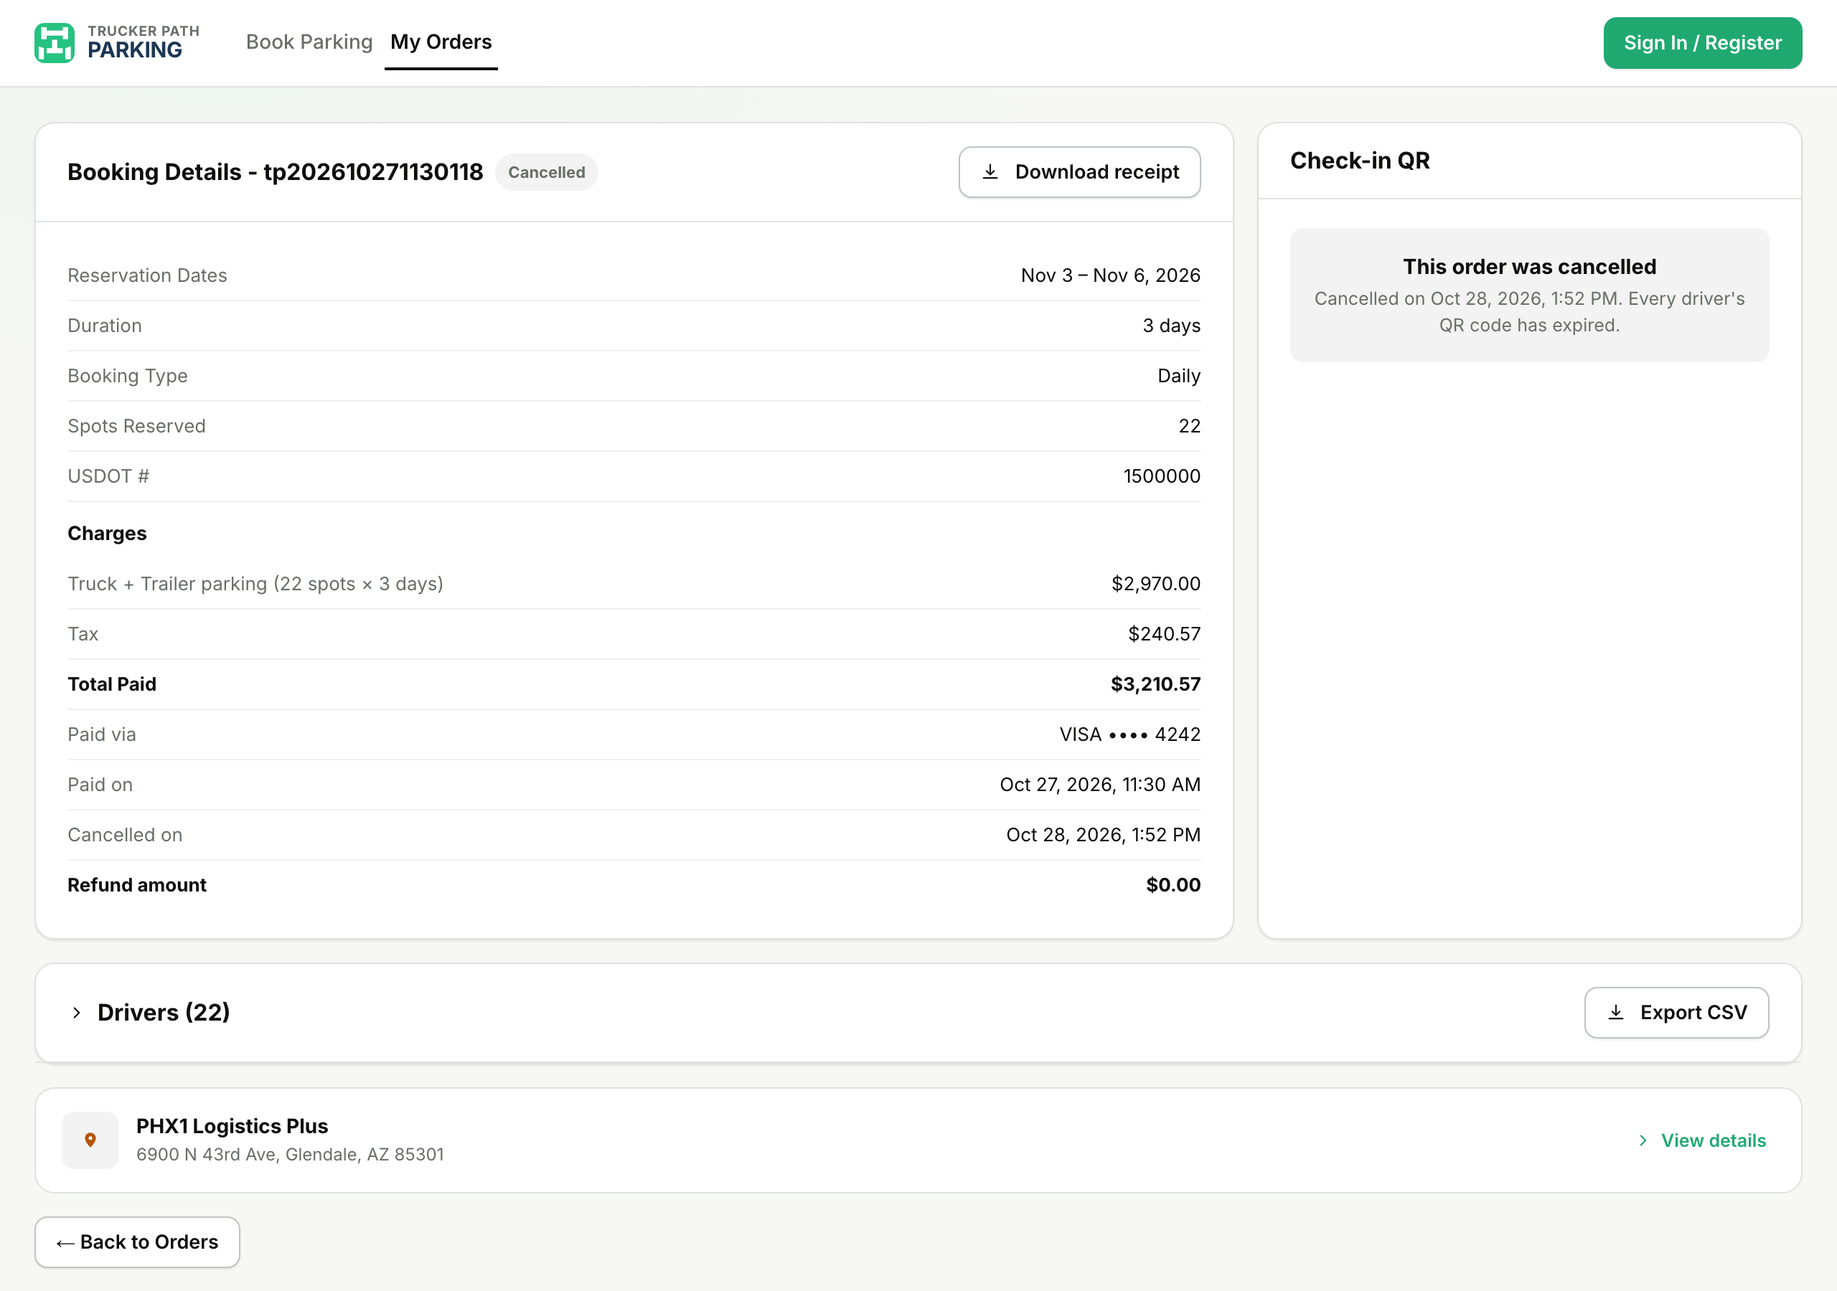
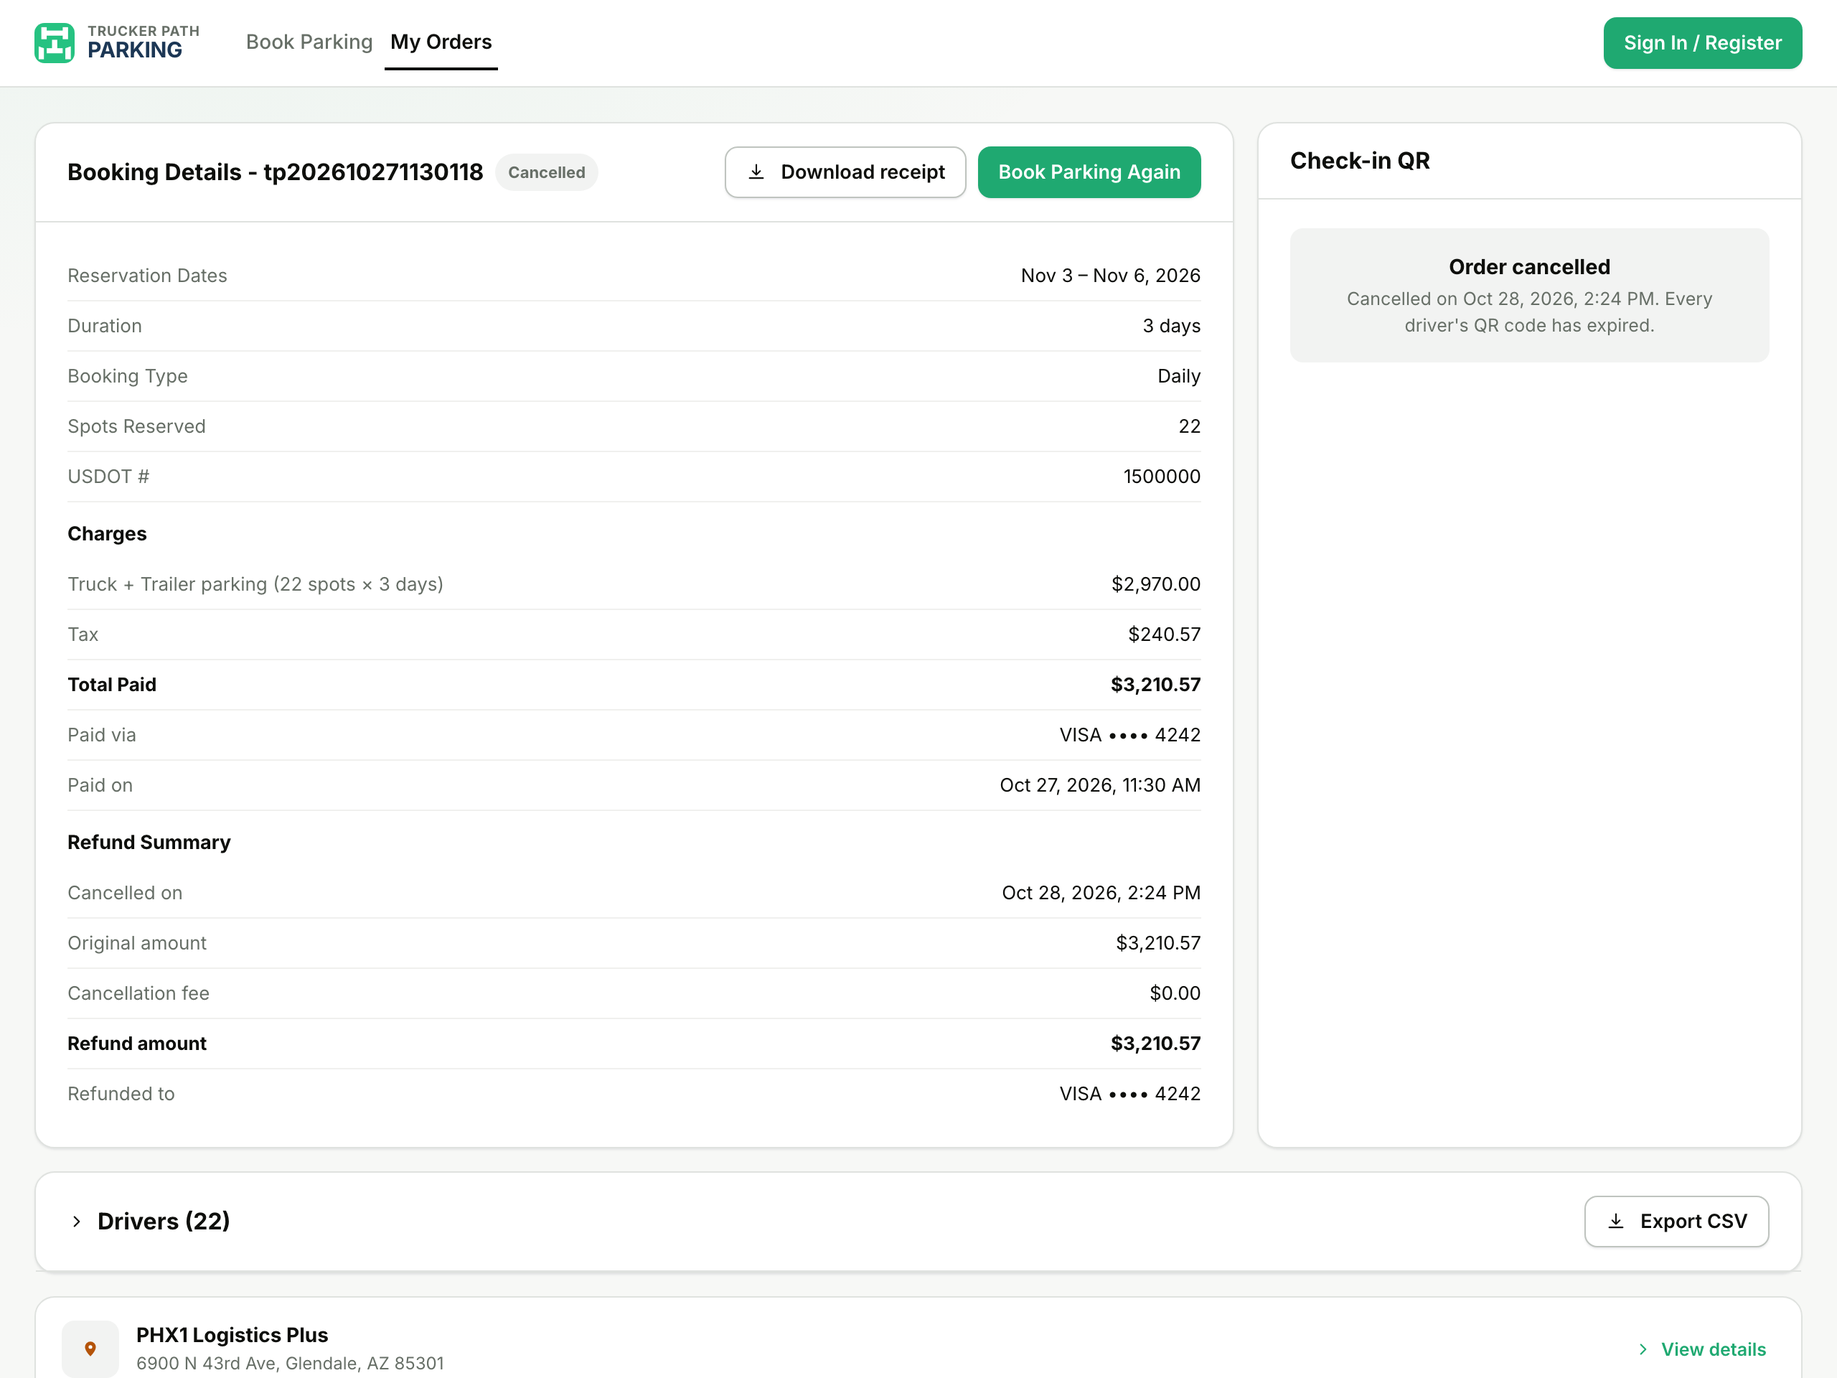
Fleet Web cancel: follow the TP App Phase 3 cancel flow
Daily: full refund > 2h before check-in, no refund within 2h, no cancel
after check-in. Monthly: Cancel Subscription, full refund > 1 day before
check-in while Booked, otherwise the original cancel subscription flow.
Adds cancellation success/failed states and the Refund Summary.

diff --git a/index.html b/index.html
@@ -488,7 +488,7 @@ const S = {
   postLoginGoto: null,
   bookingSeq: 112,
   retryOrderId: null,
-  cancelOrderId: null, cancelError: false, cancelSimFail: false,
+  cancelOrderId: null, cancelStep: 'confirm', cancelSimFail: false,
   amenitiesExpanded: false,
   hoursExpanded: false,
   driversSectionExpanded: false,
@@ -541,9 +541,10 @@ const S = {
       subscription:{ start:'Sep 1, 2026', vtype:'Truck + Trailer', cardId:'card_visa',
         history:[ {period:'Sep 1 – Sep 30, 2026', on:'Sep 1, 2026, 10:15 AM', status:'Paid'},
                   {period:'Oct 1 – Oct 31, 2026', on:'Oct 1, 2026, 12:00 AM', status:'Failed', reason:'card declined (insufficient funds)'} ] }},
-    // upcoming orders that can still be cancelled: a daily order (cancel, never refunded) and a monthly
-    // subscription starting more than 1 day out (Unsubscribe refunds it in full)
+    // upcoming orders that can still be cancelled, one per refund state of the TP App's cancel flow:
+    // daily > 2 hours before check-in (full refund), daily within 2 hours (no refund), monthly > 1 day before check-in (full refund)
     {id:'tp202610271130118', loc:'Glendale, AZ — PHX1 Logistics Plus', lotId:'glendale1', dates:'Nov 3 – Nov 6, 2026', spots:22, paidOn:'Oct 27, 2026, 11:30 AM', status:'Paid', type:'batch'},
+    {id:'tp202610280645122', loc:'Eloy, AZ — PICACHO RV & TRUCK PARK', lotId:'eloy', dates:'Oct 28 – Oct 31, 2026', spots:22, paidOn:'Oct 28, 2026, 6:45 AM', status:'Paid', type:'batch', startsWithin2h:true},
     {id:'tp202610271620131', loc:'Maricopa, AZ — N White Rd Truck & Trailer Yard', lotId:'maricopa', dates:'Starts Nov 1, 2026 · monthly', spots:2, paidOn:'Oct 27, 2026, 4:20 PM', status:'Paid', type:'batch',
       subscription:{ start:'Nov 1, 2026', notStarted:true, vtype:'Truck + Trailer', cardId:'card_visa',
         history:[ {period:'Nov 1 – Nov 30, 2026', on:'Oct 27, 2026, 4:20 PM', status:'Paid'} ] }},
@@ -2328,7 +2329,8 @@ function orderDetailPage(d){
           <h2 class="card-title" style="display:flex;align-items:center;gap:8px">Booking Details - ${d.id}${d.statusPill ? `<span class="status-pill status-cancelled">${d.statusPill}</span>` : ''}</h2>
           <div style="display:flex;gap:8px">
             <button class="btn btn-outline" data-toast="Receipt downloaded">${ic.download}&nbsp;Download receipt</button>
-            ${d.canCancel ? `<button class="btn btn-danger-outline" id="cancelOrderBtn">${d.isMonthly ? 'Unsubscribe' : 'Cancel order'}</button>` : ''}
+            ${d.canCancel ? `<button class="btn btn-danger-outline" id="cancelOrderBtn">${d.isMonthly ? 'Cancel Subscription' : 'Cancel Order'}</button>` : ''}
+            ${d.cancelled ? `<button class="btn btn-primary" id="bookAgainBtn">Book Parking Again</button>` : ''}
           </div>
         </div>
         <div class="card-body">
@@ -2349,9 +2351,12 @@ function orderDetailPage(d){
           ${d.refundedOn ? `
           <div class="info-row"><span class="k">Refunded on</span><span>${d.refundedOn}</span></div>
           <div class="info-row"><span class="k"><b style="color:var(--ink)">Refund amount</b></span><span><b>-${fmtUSD(d.total)}</b></span></div>` : ''}
-          ${d.cancelledOn ? `
+          ${d.refundSummary ? `<div class="section-label" style="color:var(--ink);margin:12px 0 8px">Refund Summary</div>
           <div class="info-row"><span class="k">Cancelled on</span><span>${d.cancelledOn}</span></div>
-          <div class="info-row"><span class="k"><b style="color:var(--ink)">Refund amount</b></span><span><b>${fmtUSD(0)}</b></span></div>` : ''}
+          <div class="info-row"><span class="k">Original amount</span><span>${fmtUSD(d.refundSummary.original)}</span></div>
+          <div class="info-row"><span class="k">Cancellation fee</span><span>${fmtUSD(d.refundSummary.fee)}</span></div>
+          <div class="info-row"><span class="k"><b style="color:var(--ink)">Refund amount</b></span><span><b>${fmtUSD(d.refundSummary.refund)}</b></span></div>
+          ${d.refundSummary.refund > 0 ? `<div class="info-row"><span class="k">Refunded to</span><span>${d.refundSummary.card}</span></div>` : ''}` : ''}
         </div>
       </div>
       ${d.cancelled ? cancelledAccessPanel(d) : gateCodePanel(d.gateCode, d.gateCaption, d.lot, d.id)}
@@ -2363,63 +2368,88 @@ function orderDetailPage(d){
   ${retryPaymentModalHtml(d)}
   ${cancelModalHtml(d)}`;
 }
-// what cancelling would return, following the TP App's cancel: a daily order is never refunded;
-// a monthly subscription unsubscribed more than 1 day before it starts refunds the total paid (tax included)
+// refund state for a cancel, per the TP App's cancel flow ([PHASE 3] PRD - Parking (TP App)):
+//   daily  — Full Refund when cancelled > 2 hours before check-in, No Refund within 2 hours (still Booked)
+//   monthly — Booked: Full Refund when > 1 day before check-in; otherwise the original cancel subscription flow
 function cancelOutcome(order, d){
-  let refundable = false;
-  if(order.subscription) refundable = !!order.subscription.notStarted && !order.subscription.startsWithin1d;
-  else if(d.bookingType === 'Monthly' && d.startIso) refundable = new Date(d.startIso) - Date.now() > 24 * 3600 * 1000;
-  return { refundable, amount: refundable ? d.total : 0 };
+  if(d.isMonthly){
+    const booked = order.subscription ? !!order.subscription.notStarted : true;
+    if(!booked) return { flow: 'subscription' };
+    return { flow: 'refund', state: 'full', rule: 'More than 1 day before check-in', amount: d.total };
+  }
+  let full;
+  if(order.startsWithin2h) full = false;
+  else if(d.startIso) full = new Date(d.startIso) - Date.now() > 2 * 3600 * 1000;
+  else full = true;
+  return full ? { flow: 'refund', state: 'full', rule: 'Cancelled more than 2 hours before check-in', amount: d.total }
+              : { flow: 'refund', state: 'none', rule: 'Within 2 hours of check-in', amount: 0 };
+}
+function lastBillingDay(order){
+  const h = order.subscription.history[order.subscription.history.length-1];
+  return h.period.split(' – ')[1];
 }
 function cancelledAccessPanel(d){
   const qr = d.lot.accessType === 'qr';
-  const when = d.refundedOn || d.cancelledOn;
   return `<div class="card gate-panel">
     <div class="card-head"><h2 class="card-title">${qr ? 'Check-in QR' : 'Gate Code'}</h2></div>
-    <div class="card-body"><div class="cancel-notice"><b>This order was ${d.refundedOn ? 'unsubscribed and refunded' : 'cancelled'}</b>${d.refundedOn ? 'Refunded' : 'Cancelled'} on ${when}. ${qr ? `Every driver's QR code has expired.` : 'The gate code no longer works for this order.'}</div></div>
+    <div class="card-body"><div class="cancel-notice"><b>Order cancelled</b>Cancelled on ${d.cancelledOn}. ${qr ? `Every driver's QR code has expired.` : 'The gate code no longer works for this order.'}</div></div>
   </div>`;
 }
 function cancelModalHtml(d){
-  if(!d.canCancel || S.cancelOrderId !== d.id) return '';
+  if(S.cancelOrderId !== d.id || (S.cancelStep !== 'success' && !d.canCancel)) return '';
   const card = (d.cardId && S.walletCards.find(c=>c.id===d.cardId)) || defaultCard();
+  const cardTxt = `${card.brand} •••• ${card.last4}`;
   const o = d.outcome;
-  const drivers = d.spots === 1 ? 'Your driver loses access' : `All ${d.spots} drivers lose access`;
-  const lotName = d.lot.name.split(' at ').pop();
-  let title, body, confirm, keep = 'Keep order';
-  if(d.isMonthly && o.refundable){
-    title = 'Unsubscribe and get a refund?';
-    body = `Your parking starts more than 1 day from now, so you get everything back. The subscription ends now and your card won't be charged again. ${drivers} and get an email.`;
-    confirm = 'Unsubscribe and refund'; keep = 'Keep subscription';
-  } else if(d.isMonthly){
-    title = 'Unsubscribe?';
-    body = `Your spots stay active until the end of the current billing period, then end. Your card won't be charged again. This month isn't refundable.`;
-    confirm = 'Unsubscribe'; keep = 'Keep subscription';
-  } else {
-    title = 'Cancel this order?';
-    body = `Daily orders aren't refundable, so you won't get money back. ${drivers} to ${lotName} and get an email.`;
-    confirm = 'Cancel order';
-  }
-  const showRefund = !(d.isMonthly && !o.refundable);
-  return `<div class="modal-overlay" id="cancelOverlay">
-    <div class="modal-box">
-      <div style="display:flex;justify-content:space-between;align-items:center;margin-bottom:6px">
-        <div style="font-weight:700;font-size:15px">${title}</div>
-        <button class="dp-close" id="cancelX" aria-label="Close">${ic.x}</button>
-      </div>
-      <div style="font-size:13px;color:var(--ink-soft);line-height:1.5">${body}</div>
-      ${S.cancelError ? `<div class="cx-err"><span class="pay-alert-ic" style="width:28px;height:28px">${ic.warn}</span><div><b>We couldn't process your refund.</b>Your order is still active and nothing changed. Try again, or contact support@truckerpath.com.</div></div>` : ''}
-      ${showRefund ? `<div class="cx-sum">
-        <div class="cx-row"><span class="k">Total paid</span><b>${fmtUSD(d.total)}</b></div>
-        <div class="cx-row"><span class="k">${o.refundable ? `Refund to ${card.brand} •••• ${card.last4}` : 'Refund'}</span><b class="${o.refundable ? 'ok' : 'no'}">${fmtUSD(o.amount)}</b></div>
-      </div>
-      ${o.refundable ? `<div style="font-size:12px;color:var(--ink-soft);margin-top:8px">Refunds take 5–10 business days to show on your card.</div>` : ''}` : ''}
-      ${o.refundable ? `<label class="cx-sim"><input type="checkbox" id="cancelSimFail" ${S.cancelSimFail?'checked':''}> Prototype only: simulate a refund failure</label>` : ''}
+  const title = d.isMonthly ? 'Cancel Subscription' : 'Cancel Order';
+  const head = t => `<div style="display:flex;justify-content:space-between;align-items:center;margin-bottom:6px">
+        <div style="font-weight:700;font-size:15px">${t}</div>
+        <button class="dp-close" id="cancelX" aria-label="Close">${ic.x}</button></div>`;
+  let inner;
+  if(S.cancelStep === 'success'){
+    const r = S.cancelResult;
+    inner = `${head(d.isMonthly ? 'Subscription Cancelled' : 'Order Cancelled')}
+      ${r.flow === 'subscription'
+        ? `<div style="font-size:13px;color:var(--ink-soft);line-height:1.5">Your subscription is cancelled. Your spot stays active until ${r.lastDay}.</div>`
+        : `<div class="cx-sum">
+            <div class="cx-row"><span class="k">Refund amount</span><b class="${r.amount>0?'ok':''}">${fmtUSD(r.amount)}</b></div>
+            ${r.amount > 0 ? `<div class="cx-row"><span class="k">Refund to</span><b>${cardTxt}</b></div>
+            <div class="cx-row"><span class="k">Processing time</span><b>5–10 business days</b></div>` : ''}
+          </div>`}
       <div style="display:flex;gap:10px;margin-top:16px">
-        <button class="btn btn-outline" style="flex:1" id="cancelKeep">${keep}</button>
-        <button class="btn btn-danger" style="flex:1" id="cancelConfirm">${S.cancelError ? 'Try again' : confirm}</button>
+        <button class="btn btn-outline" style="flex:1" id="cancelKeep">View Order</button>
+        <button class="btn btn-primary" style="flex:1" id="bookAgainBtn">Book Parking Again</button>
+      </div>`;
+  } else if(S.cancelStep === 'failed'){
+    inner = `${head('Cancellation Failed')}
+      <div class="cx-err"><span class="pay-alert-ic" style="width:28px;height:28px">${ic.warn}</span><div><b>We couldn't cancel your order.</b>Your order hasn't changed. Try again, or contact support.</div></div>
+      <div style="display:flex;gap:10px;margin-top:16px">
+        <button class="btn btn-outline" style="flex:1" id="cancelSupport">Contact Support</button>
+        <button class="btn btn-primary" style="flex:1" id="cancelKeep">Try Again</button>
+      </div>`;
+  } else if(o.flow === 'subscription'){
+    inner = `${head(title)}
+      <div style="font-size:13px;color:var(--ink-soft);line-height:1.5">This spot stays active until ${lastBillingDay(d.order)}, then ends. Your card won't be charged again.</div>
+      <div style="display:flex;gap:10px;margin-top:16px">
+        <button class="btn btn-outline" style="flex:1" id="cancelKeep">Keep Subscription</button>
+        <button class="btn btn-danger" style="flex:1" id="cancelConfirm">Cancel Subscription</button>
+      </div>`;
+  } else {
+    const full = o.state === 'full';
+    inner = `${head(title)}
+      <div style="display:flex;align-items:center;gap:8px;font-size:13px"><span class="status-pill ${full?'status-paid':'status-failed'}">${full ? 'Full Refund' : 'No Refund'}</span><span style="color:var(--ink-soft)">${o.rule}</span></div>
+      <div class="cx-sum">
+        <div class="cx-row"><span class="k">Original amount</span><b>${fmtUSD(d.total)}</b></div>
+        <div class="cx-row"><span class="k">Cancellation fee</span><b>${fmtUSD(d.total - o.amount)}</b></div>
+        <div class="cx-row"><span class="k">Refund amount</span><b class="${full?'ok':'no'}">${fmtUSD(o.amount)}</b></div>
       </div>
-    </div>
-  </div>`;
+      ${full ? `<div style="font-size:12px;color:var(--ink-soft);margin-top:8px">Refunded to your original payment method (${cardTxt}).</div>` : ''}
+      <label class="cx-sim"><input type="checkbox" id="cancelSimFail" ${S.cancelSimFail?'checked':''}> Prototype only: simulate a failed cancellation</label>
+      <div style="display:flex;gap:10px;margin-top:16px">
+        <button class="btn btn-outline" style="flex:1" id="cancelKeep">${d.isMonthly ? 'Keep Subscription' : 'Keep Order'}</button>
+        <button class="btn btn-danger" style="flex:1" id="cancelConfirm">${title}</button>
+      </div>`;
+  }
+  return `<div class="modal-overlay" id="cancelOverlay"><div class="modal-box">${inner}</div></div>`;
 }
 function retryPaymentModalHtml(d){
   if(!d.paymentIssue || S.retryOrderId !== d.id) return '';
@@ -2471,15 +2501,19 @@ function screenOrderDetail(){
 }
 // order-level cancel state layered over the detail, so a frozen payment snapshot never has to change
 function withCancelState(order, base){
-  const d = { ...base };
+  const d = { ...base, order };
   d.isMonthly = !!order.subscription || d.bookingType === 'Monthly';
-  d.cancelled = order.status === 'Refunded' || order.status === 'Cancelled';
-  d.canCancel = order.status === 'Paid' && !order.ended;
+  // a monthly subscription cancelled inside its billing period keeps access until the last day billed
+  d.cancelled = order.status === 'Refunded' || (order.status === 'Cancelled' && !order.activeUntil);
+  d.canCancel = d.isMonthly ? (order.status === 'Paid' || order.status === 'Payment failed') && !order.ended
+                            : order.status === 'Paid' && !order.ended && !order.checkedIn;
   d.outcome = cancelOutcome(order, d);
   if(order.refundedOn) d.refundedOn = order.refundedOn;
   if(order.cancelledOn) d.cancelledOn = order.cancelledOn;
+  if(order.refundSummary) d.refundSummary = order.refundSummary;
   if(order.status !== 'Paid' && order.status !== 'Payment failed') d.statusPill = order.status;
-  if(order.status === 'Unsubscribed') d.reservationDates = `${d.reservationDates.split(' · ')[0]} · unsubscribed, active until the end of the current billing period`;
+  if(order.activeUntil) d.paymentIssue = null;
+  if(order.activeUntil) d.reservationDates = `${d.reservationDates.split(' · ')[0]} · subscription cancelled, last day of billing ${order.activeUntil}`;
   return d;
 }
 
@@ -2837,28 +2871,37 @@ function wireScreen(root){
     }, 800);
   });
   const cancelOrderBtn = root.querySelector('#cancelOrderBtn'); if(cancelOrderBtn) cancelOrderBtn.addEventListener('click',()=>{
-    S.cancelOrderId = S.selectedOrderId; S.cancelError = false; S.cancelSimFail = false; render();
+    S.cancelOrderId = S.selectedOrderId; S.cancelStep = 'confirm'; S.cancelSimFail = false; render();
   });
-  const closeCancel = ()=>{ S.cancelOrderId = null; S.cancelError = false; render(); };
+  const closeCancel = ()=>{ S.cancelOrderId = null; S.cancelStep = 'confirm'; render(); };
   ['#cancelKeep','#cancelX'].forEach(sel=>{ const b = root.querySelector(sel); if(b) b.addEventListener('click', closeCancel); });
   const cancelOverlay = root.querySelector('#cancelOverlay'); if(cancelOverlay) cancelOverlay.addEventListener('click',(e)=>{ if(e.target===cancelOverlay) closeCancel(); });
   const cancelSimFail = root.querySelector('#cancelSimFail'); if(cancelSimFail) cancelSimFail.addEventListener('change',()=>{ S.cancelSimFail = cancelSimFail.checked; });
+  const cancelSupport = root.querySelector('#cancelSupport'); if(cancelSupport) cancelSupport.addEventListener('click',()=>toast('Opens Trucker Path support chat'));
+  const bookAgainBtn = root.querySelector('#bookAgainBtn'); if(bookAgainBtn) bookAgainBtn.addEventListener('click',()=>{
+    const order = S.ordersHistory.find(o=>o.id===S.selectedOrderId);
+    S.cancelOrderId = null; S.cancelStep = 'confirm';
+    selectLot(order.lotId); S.detailPanelOpen = true; go('book1');
+  });
   const cancelConfirm = root.querySelector('#cancelConfirm'); if(cancelConfirm) cancelConfirm.addEventListener('click',()=>{
     cancelConfirm.textContent = 'Processing…'; cancelConfirm.disabled = true;
     setTimeout(()=>{
       const order = S.ordersHistory.find(o=>o.id===S.cancelOrderId);
       const d = withCancelState(order, orderDetailFor(order));
-      // a failed refund writes nothing: the order stays as it was and the modal stays open
-      if(d.outcome.refundable && S.cancelSimFail){ S.cancelError = true; S.cancelSimFail = false; render(); return; }
-      const now = fmtPaidOn(new Date());
+      // a failed cancellation writes nothing: the order stays as it was
+      if(S.cancelSimFail){ S.cancelStep = 'failed'; S.cancelSimFail = false; render(); return; }
       const card = (d.cardId && S.walletCards.find(c=>c.id===d.cardId)) || defaultCard();
-      if(d.outcome.refundable){ order.status = 'Refunded'; order.refundedOn = now; }
-      else if(d.isMonthly){ order.status = 'Unsubscribed'; }
-      else { order.status = 'Cancelled'; order.cancelledOn = now; }
-      S.cancelOrderId = null; S.cancelError = false;
+      order.status = 'Cancelled';
+      order.cancelledOn = fmtPaidOn(new Date());
+      if(d.outcome.flow === 'subscription'){
+        order.activeUntil = lastBillingDay(order);
+        S.cancelResult = { flow: 'subscription', lastDay: order.activeUntil };
+      } else {
+        order.refundSummary = { original: d.total, fee: d.total - d.outcome.amount, refund: d.outcome.amount, card: `${card.brand} •••• ${card.last4}` };
+        S.cancelResult = { flow: 'refund', amount: d.outcome.amount };
+      }
+      S.cancelStep = 'success';
       render();
-      toast(d.outcome.refundable ? `Order cancelled — ${fmtUSD(d.total)} refunded to ${card.brand} •••• ${card.last4}`
-        : d.isMonthly ? `Unsubscribed — your card won't be charged again` : 'Order cancelled — no refund');
     }, 800);
   });
   const amenitiesToggle = root.querySelector('#amenitiesToggle'); if(amenitiesToggle) amenitiesToggle.addEventListener('click',()=>{ S.amenitiesExpanded=!S.amenitiesExpanded; render(); });
